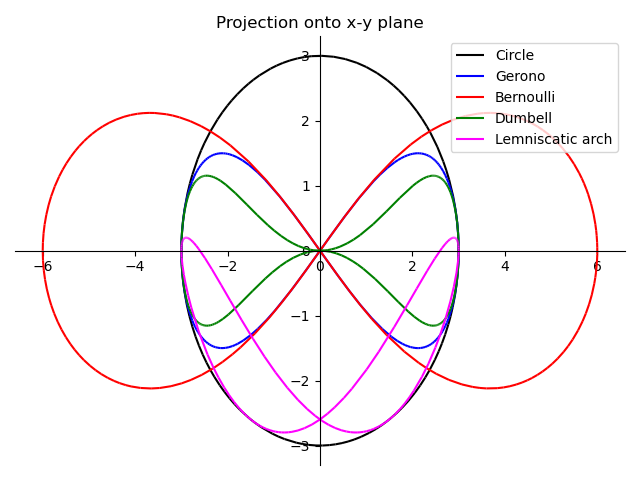
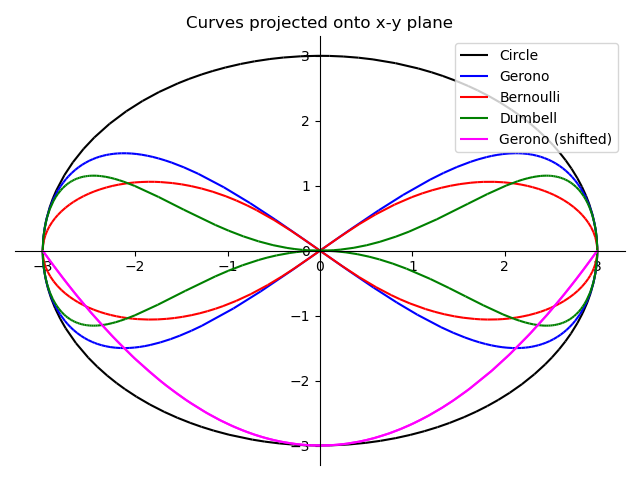
fixed the scaling issue with bernoulli

diff --git a/main.py b/main.py
@@ -100,7 +100,7 @@ SOLS.append(nonlinsolve([EQNS[1], EQNS[2]], [a, b], S.Reals).simplify())
 # 2D // lemniscate of Bernoulli
 # -----------------------
 # d is half-width: distance from crossing point to horiz extreme (tunable)
-d1 = 2*d
+d1 = d
 w = 0
 x = d1*cos(t)/(1+sin(t)*sin(t))
 y = d1*sin(t)*cos(t)/(1+sin(t)*sin(t))
@@ -126,14 +126,11 @@ SOLS.append(nonlinsolve([EQNS[1], EQNS[2]], [a, b], S.Reals).simplify())
 # ---------------------------------------------
 w = 0
 x = d*cos(t)
-y = d*sin(t)*cos(t+pi/3)
+y = d*sin(t)*cos(t+pi/2)
 z = 0 #0.5*d*sin(t)*sin(t)
 eqn_8boo = Matrix([w,x,y,z])
 EQNS = eqn_8boo - RHS
 SOLS.append(nonlinsolve([EQNS[1], EQNS[2]], [a, b], S.Reals).simplify())
-
-
-
 
 
 #%% Pull out and ensure unit quaternion (norm = 1)
@@ -180,7 +177,7 @@ plot_2D = plot_parametric(
                 (plots[3][1], plots[3][2]),
                 (t,-np.pi,np.pi), 
                 legend = True,
-                title = 'Projection onto x-y plane')           
+                title = 'Curves projected onto x-y plane')           
 plot_2D[0].line_color = 'black'
 plot_2D[0].label = 'Circle'
 plot_2D[1].line_color = 'blue'
@@ -190,7 +187,7 @@ plot_2D[2].label = 'Bernoulli'
 plot_2D[3].line_color = 'green'
 plot_2D[3].label = 'Dumbell'
 plot_2D[4].line_color = 'magenta'
-plot_2D[4].label = 'Lemniscatic arch'
+plot_2D[4].label = 'Gerono (shifted)'
 plot_2D.show()
 
 
@@ -203,7 +200,7 @@ plot_2D = plot_parametric(
                 (plots[3][2], plots[3][3]),
                 (t,-np.pi,np.pi), 
                 legend = True,
-                title = 'Projection onto y-z plane')           
+                title = 'Curves projected onto y-z plane')           
 plot_2D[0].line_color = 'black'
 plot_2D[0].label = 'Circle'
 plot_2D[1].line_color = 'blue'
@@ -213,7 +210,7 @@ plot_2D[2].label = 'Bernoulli'
 plot_2D[3].line_color = 'green'
 plot_2D[3].label = 'Dumbell'
 plot_2D[4].line_color = 'magenta'
-plot_2D[4].label = 'Lemniscatic arch'
+plot_2D[4].label = 'Gerono (shifted)'
 plot_2D.show()
 
 
@@ -226,7 +223,7 @@ plot_3D = plot3d_parametric_line(
                 (plots[2][1], plots[2][2], plots[2][3],(t,-np.pi,np.pi)),
                 (plots[3][1], plots[3][2], plots[3][3],(t,-np.pi,np.pi)),
                 (eqn_cir[1], eqn_cir[1]*0.01, eqn_cir[2], (t,-np.pi,np.pi)),
-                title = 'Curves formed from deformed circles',
+                title = 'Curves in 3D',
                 legend = True)           
 plot_3D[0].line_color = 'black'
 plot_3D[5].line_color = 'black'
@@ -239,7 +236,7 @@ plot_3D[2].label = 'Bernoulli'
 plot_3D[3].line_color = 'green'
 plot_3D[3].label = 'Dumbell'
 plot_3D[4].line_color = 'magenta'
-plot_3D[4].label = 'Lemniscatic arch'
+plot_3D[4].label = 'Gerono (shifted)'
 plot_3D.show()
 
 #%% Animate one curve
